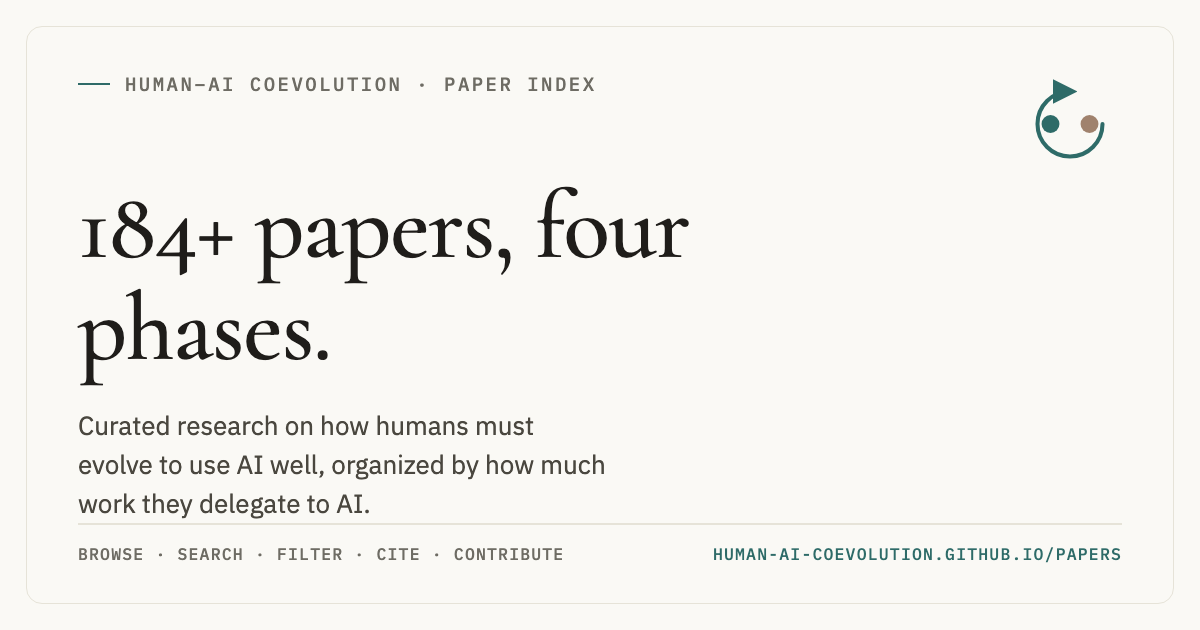
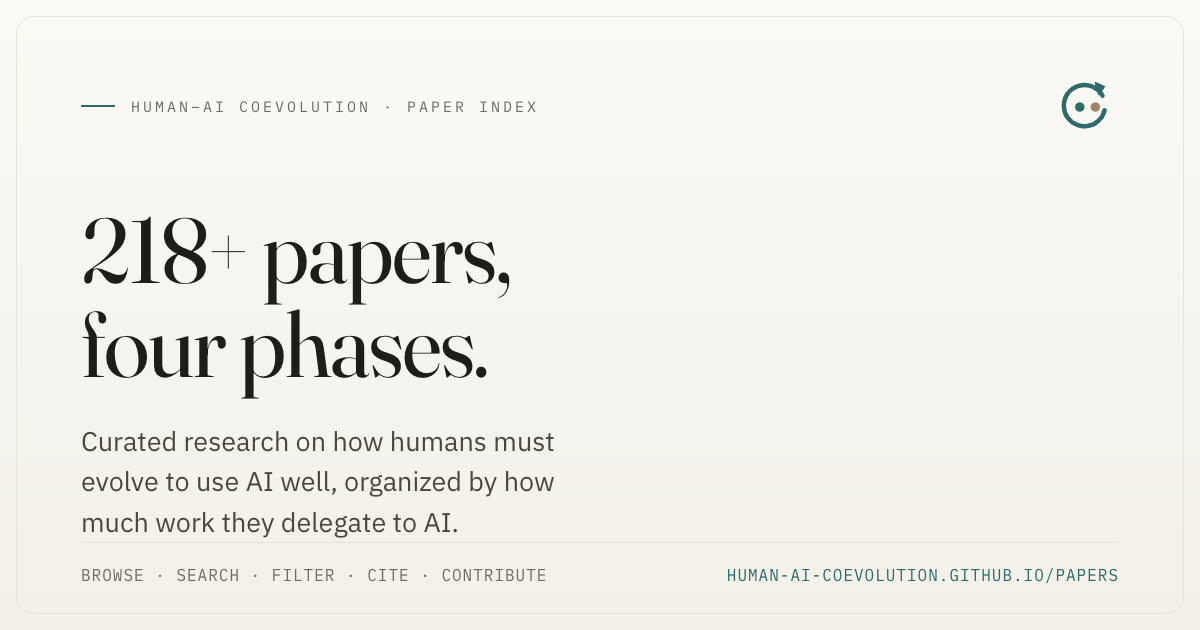
og: refresh preview images to 218 papers (Fraunces), add editable sources
- og.png: "Four-phase framework · 218-paper index" (was 184)
- og-papers.png: "218+ papers, four phases." (was 184+)
- rebuilt from new HTML templates in og-templates/ (the old PNG sources
  were lost); titles now use Fraunces to match the site

diff --git a/site/og-templates/og-home.html b/site/og-templates/og-home.html
@@ -1,0 +1,54 @@
+<!doctype html>
+<!-- Source template for /public/og.png. Edit the count / text here, then
+     re-render to a 1200x630 PNG (see og-templates/README note). -->
+<html lang="en">
+<head>
+<meta charset="utf-8" />
+<style>
+  @import url('https://fonts.googleapis.com/css2?family=Fraunces:opsz,wght@9..144,400;9..144,500&family=IBM+Plex+Sans:wght@400;500;600&family=IBM+Plex+Mono:wght@400;500&display=swap');
+  * { margin: 0; padding: 0; box-sizing: border-box; }
+  html, body { width: 1200px; height: 630px; }
+  body {
+    background: linear-gradient(#faf9f5, #f2f0e8);
+    font-family: 'IBM Plex Sans', sans-serif;
+    color: #1f1d1a;
+    -webkit-font-smoothing: antialiased;
+  }
+  .card { position: absolute; inset: 16px; border: 1px solid #e6e3d8; border-radius: 18px; padding: 56px 64px; display: flex; flex-direction: column; }
+  .top { display: flex; align-items: center; justify-content: space-between; }
+  .eyebrow { display: flex; align-items: center; gap: 16px; font-family: 'IBM Plex Mono', monospace; font-size: 15px; letter-spacing: 3px; text-transform: uppercase; color: #6e6c64; }
+  .eyebrow .rule { width: 34px; height: 2px; background: #2e6b68; display: inline-block; }
+  .title { font-family: 'Fraunces', serif; font-weight: 400; font-size: 82px; line-height: 1.03; letter-spacing: -1.5px; margin-top: 40px; }
+  .sub { font-size: 24px; line-height: 1.5; color: #4a473f; margin-top: 26px; max-width: 30ch; }
+  .sub strong { color: #1f1d1a; font-weight: 600; }
+  .foot { margin-top: auto; }
+  .foot .rule { height: 1px; background: #e6e3d8; margin-bottom: 22px; }
+  .foot .row { display: flex; align-items: center; justify-content: space-between; font-family: 'IBM Plex Mono', monospace; font-size: 16px; letter-spacing: 1px; text-transform: uppercase; }
+  .foot .left { color: #6e6c64; }
+  .foot .right { color: #2e6b68; }
+  .logo { width: 66px; height: 66px; }
+</style>
+</head>
+<body>
+  <div class="card">
+    <div class="top">
+      <div class="eyebrow"><span class="rule"></span><span>A Research Project · 2026</span></div>
+      <svg class="logo" viewBox="0 0 64 64" fill="none">
+        <path d="M48 22 A20 20 0 1 0 50 36" stroke="#2e6b68" stroke-width="4.4" stroke-linecap="round"/>
+        <path d="M40 8 l11 5 l-7 9 z" fill="#2e6b68"/>
+        <circle cx="26" cy="33" r="4.6" fill="#2e6b68"/>
+        <circle cx="41" cy="33" r="4.6" fill="#a0826d"/>
+      </svg>
+    </div>
+    <div class="title">Human&#8211;AI<br/>Coevolution</div>
+    <div class="sub"><strong>Human evolution is underdeveloped.</strong> How humans must evolve to use AI well as AI advances.</div>
+    <div class="foot">
+      <div class="rule"></div>
+      <div class="row">
+        <span class="left">Four-phase framework · 218-paper index</span>
+        <span class="right">human-ai-coevolution.github.io</span>
+      </div>
+    </div>
+  </div>
+</body>
+</html>

diff --git a/site/og-templates/og-papers.html b/site/og-templates/og-papers.html
@@ -1,0 +1,48 @@
+<!doctype html>
+<!-- Source template for /public/og-papers.png. Edit count / text, re-render to 1200x630 PNG. -->
+<html lang="en">
+<head>
+<meta charset="utf-8" />
+<style>
+  @import url('https://fonts.googleapis.com/css2?family=Fraunces:opsz,wght@9..144,400;9..144,500&family=IBM+Plex+Sans:wght@400;500;600&family=IBM+Plex+Mono:wght@400;500&display=swap');
+  * { margin: 0; padding: 0; box-sizing: border-box; }
+  html, body { width: 1200px; height: 630px; }
+  body { background: linear-gradient(#faf9f5, #f2f0e8); font-family: 'IBM Plex Sans', sans-serif; color: #1f1d1a; -webkit-font-smoothing: antialiased; }
+  .card { position: absolute; inset: 16px; border: 1px solid #e6e3d8; border-radius: 18px; padding: 56px 64px; display: flex; flex-direction: column; }
+  .top { display: flex; align-items: center; justify-content: space-between; }
+  .eyebrow { display: flex; align-items: center; gap: 16px; font-family: 'IBM Plex Mono', monospace; font-size: 15px; letter-spacing: 3px; text-transform: uppercase; color: #6e6c64; }
+  .eyebrow .rule { width: 34px; height: 2px; background: #2e6b68; display: inline-block; }
+  .title { font-family: 'Fraunces', serif; font-weight: 400; font-size: 92px; line-height: 1.02; letter-spacing: -1.5px; margin-top: 64px; }
+  .title .num { font-variant-numeric: lining-nums; }
+  .sub { font-size: 27px; line-height: 1.5; color: #4a473f; margin-top: 30px; max-width: 30ch; }
+  .foot { margin-top: auto; }
+  .foot .rule { height: 1px; background: #e6e3d8; margin-bottom: 22px; }
+  .foot .row { display: flex; align-items: center; justify-content: space-between; font-family: 'IBM Plex Mono', monospace; font-size: 16px; letter-spacing: 1px; text-transform: uppercase; }
+  .foot .left { color: #6e6c64; }
+  .foot .right { color: #2e6b68; }
+  .logo { width: 66px; height: 66px; }
+</style>
+</head>
+<body>
+  <div class="card">
+    <div class="top">
+      <div class="eyebrow"><span class="rule"></span><span>Human&#8211;AI Coevolution · Paper Index</span></div>
+      <svg class="logo" viewBox="0 0 64 64" fill="none">
+        <path d="M48 22 A20 20 0 1 0 50 36" stroke="#2e6b68" stroke-width="4.4" stroke-linecap="round"/>
+        <path d="M40 8 l11 5 l-7 9 z" fill="#2e6b68"/>
+        <circle cx="26" cy="33" r="4.6" fill="#2e6b68"/>
+        <circle cx="41" cy="33" r="4.6" fill="#a0826d"/>
+      </svg>
+    </div>
+    <div class="title"><span class="num">218</span>+ papers,<br/>four phases.</div>
+    <div class="sub">Curated research on how humans must evolve to use AI well, organized by how much work they delegate to AI.</div>
+    <div class="foot">
+      <div class="rule"></div>
+      <div class="row">
+        <span class="left">Browse · Search · Filter · Cite · Contribute</span>
+        <span class="right">human-ai-coevolution.github.io/papers</span>
+      </div>
+    </div>
+  </div>
+</body>
+</html>
